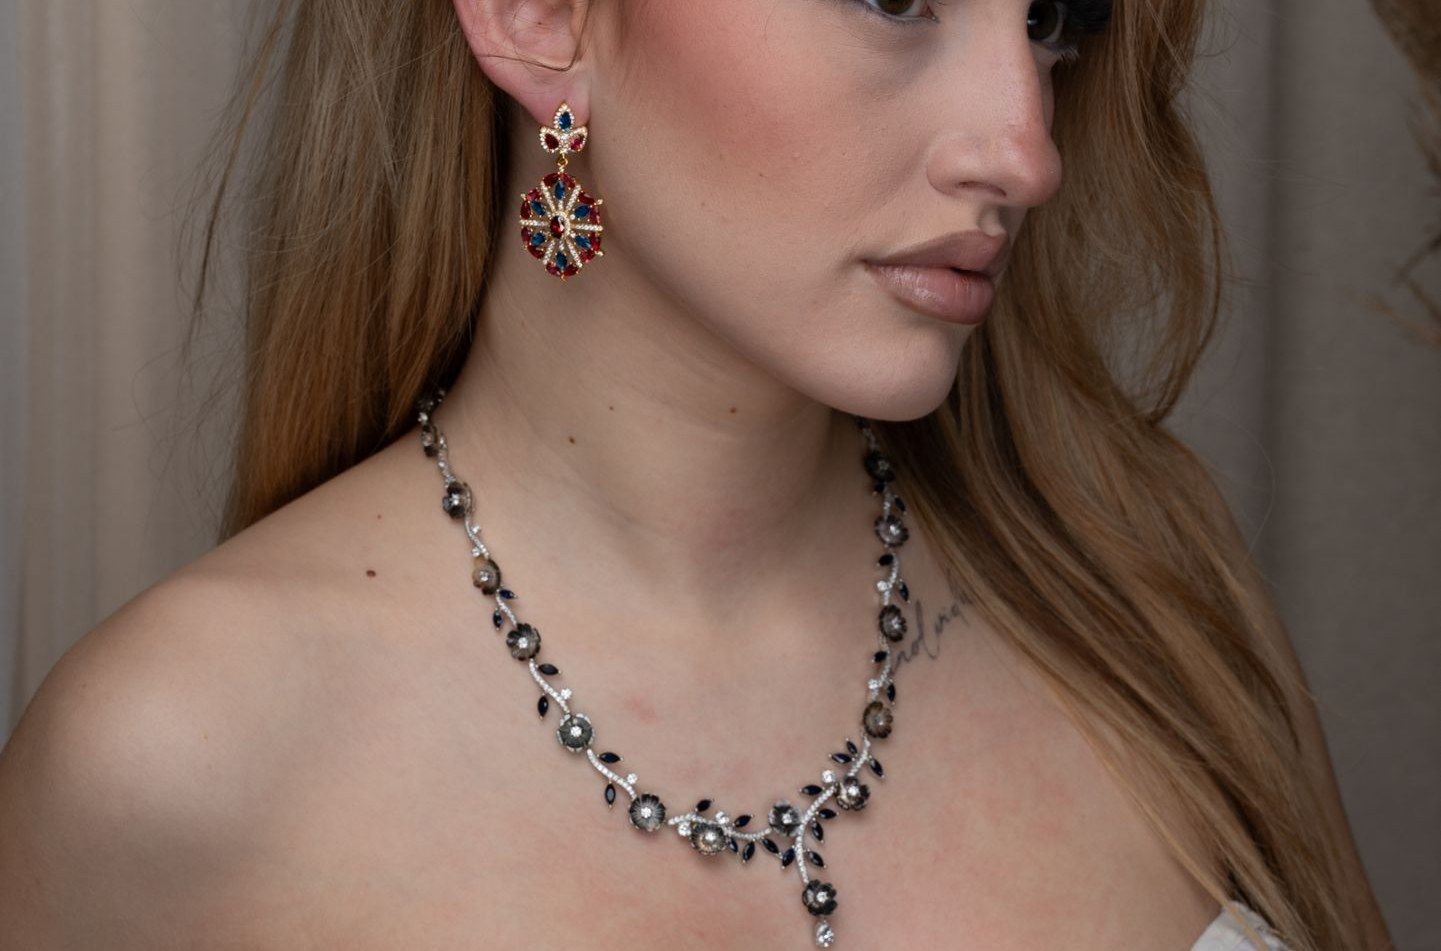
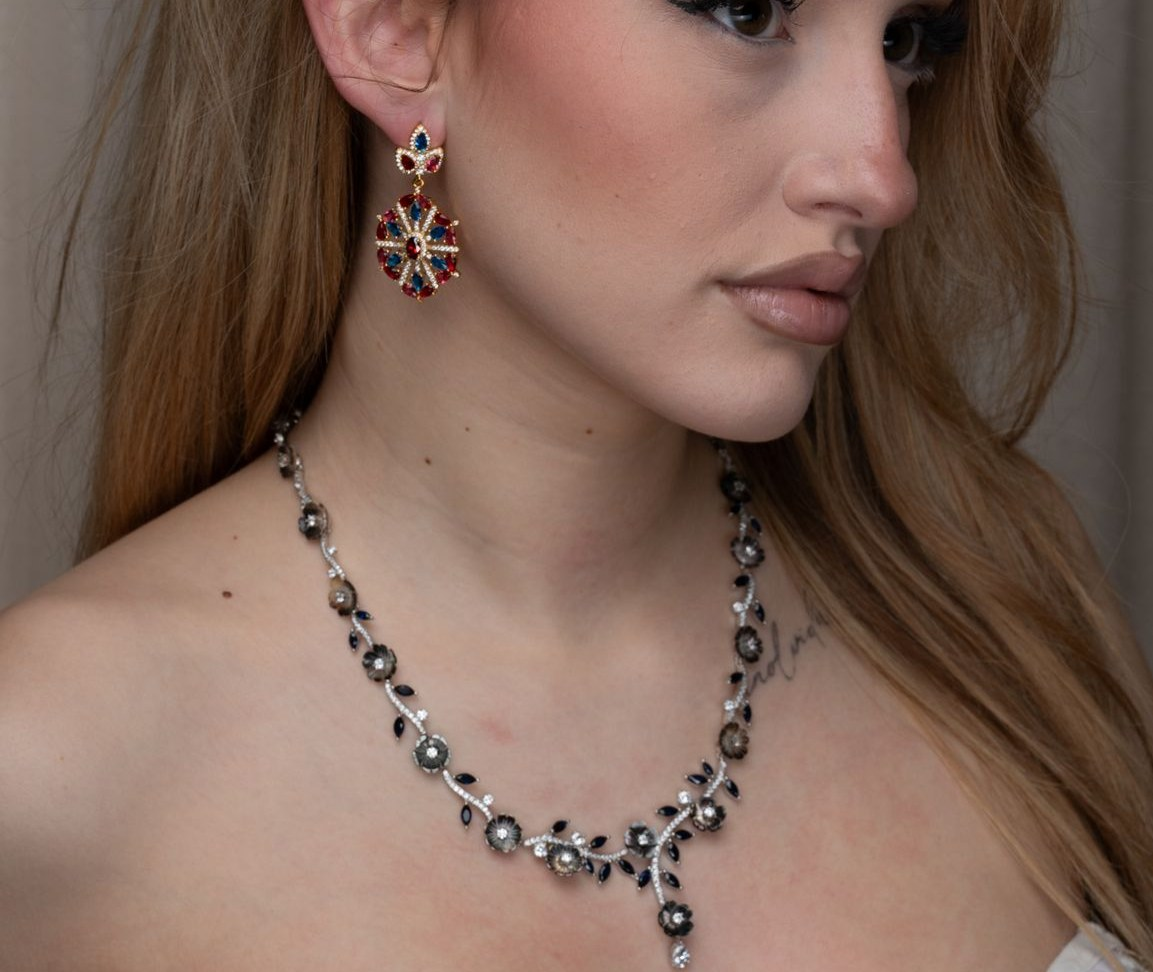
LL Joyería: todas las diapositivas con foto a la derecha y degradado; nueva foto en la 3

diff --git a/ll-joyeria/index.html b/ll-joyeria/index.html
@@ -334,7 +334,7 @@ footer{background:#fff;border-top:1px solid var(--linea)}
 .pz:hover img{transform:scale(1.05)}
 .pz-pie{text-align:center;margin-top:40px;color:var(--gris)}
 @media (max-width:640px){.piezas{padding-bottom:84px}.pz-g{grid-template-columns:1fr 1fr;gap:10px}.pz-t{font-size:21px;margin-top:30px}}
-@media (min-width:641px){.slide.lado{background:#24211d}.slide.lado .foto{left:auto;width:66%}.slide.lado .foto>picture>img{object-position:50% 50%!important}.slide.lado:nth-of-type(3) .foto>picture>img{object-position:50% 72%!important}.slide.lado .velo{background:linear-gradient(90deg,#24211d 0%,#24211d 34%,rgba(36,33,29,.94) 39%,rgba(36,33,29,.8) 44%,rgba(36,33,29,.58) 49%,rgba(36,33,29,.34) 54%,rgba(36,33,29,.15) 59%,rgba(36,33,29,.04) 64%,rgba(36,33,29,0) 68%)}}
+@media (min-width:641px){.slide.lado{background:#24211d}.slide.lado .foto{left:auto;width:66%}.slide.lado .foto>picture>img{object-position:50% 50%!important}.slide.lado:nth-of-type(3) .foto>picture>img{object-position:50% 88%!important;transform-origin:50% 90%}.slide.lado .velo{background:linear-gradient(90deg,#24211d 0%,#24211d 34%,rgba(36,33,29,.94) 39%,rgba(36,33,29,.8) 44%,rgba(36,33,29,.58) 49%,rgba(36,33,29,.34) 54%,rgba(36,33,29,.15) 59%,rgba(36,33,29,.04) 64%,rgba(36,33,29,0) 68%)}}
 </style>
 </head>
 <body>
@@ -398,8 +398,8 @@ footer{background:#fff;border-top:1px solid var(--linea)}
 <section id="inicio" aria-label="Inicio">
   <div class="portada" id="portada">
     <!-- Diapositiva 1 -->
-    <div class="slide on" data-tono="claro">
-      <div class="foto"><picture><source media="(max-width:640px)" srcset="img/portada-1-movil.webp"><img src="img/portada-1.webp" width="1441" height="951" fetchpriority="high" alt="Modelo con collar y pendientes de Joyería Los Lobatos" style="object-position:50% 22%"></picture></div>
+    <div class="slide lado on" data-tono="claro">
+      <div class="foto"><picture><source media="(max-width:640px)" srcset="img/portada-1-movil.webp"><img src="img/portada-1.webp" width="1153" height="972" fetchpriority="high" alt="Modelo con collar y pendientes de Joyería Los Lobatos" style="object-position:50% 22%"></picture></div>
       <div class="velo"></div>
       <div class="txt">
         <span class="mayus">Alta joyería</span>
@@ -409,8 +409,8 @@ footer{background:#fff;border-top:1px solid var(--linea)}
       </div>
     </div>
     <!-- Diapositiva 2 -->
-    <div class="slide" data-tono="claro">
-      <div class="foto"><picture><source media="(max-width:640px)" srcset="img/portada-2-movil.webp"><img src="img/portada-2.webp" width="2560" height="1306" decoding="async" alt="Manos con anillo de compromiso y alianza" style="object-position:50% 50%"></picture></div>
+    <div class="slide lado" data-tono="claro">
+      <div class="foto"><picture><source media="(max-width:640px)" srcset="img/portada-2-movil.webp"><img src="img/portada-2.webp" width="2000" height="1667" decoding="async" alt="Manos con anillo de compromiso y alianza" style="object-position:50% 50%"></picture></div>
       <div class="velo"></div>
       <div class="txt">
         <span class="mayus">Anillos y alianzas</span>
@@ -421,7 +421,7 @@ footer{background:#fff;border-top:1px solid var(--linea)}
     </div>
     <!-- Diapositiva 3 -->
     <div class="slide lado" data-tono="claro">
-      <div class="foto"><picture><source media="(max-width:640px)" srcset="img/portada-3-movil.webp"><img src="img/portada-3.webp" width="2000" height="1674" decoding="async" alt="Pendiente con perla y anillo" style="object-position:50% 40%"></picture></div>
+      <div class="foto"><picture><source media="(max-width:640px)" srcset="img/portada-3-movil.webp"><img src="img/portada-3.webp" width="1468" height="1230" decoding="async" alt="Mujer con pendiente de perla y anillo de diamantes" style="object-position:50% 40%"></picture></div>
       <div class="velo"></div>
       <div class="txt">
         <span class="mayus">Perlas</span>
